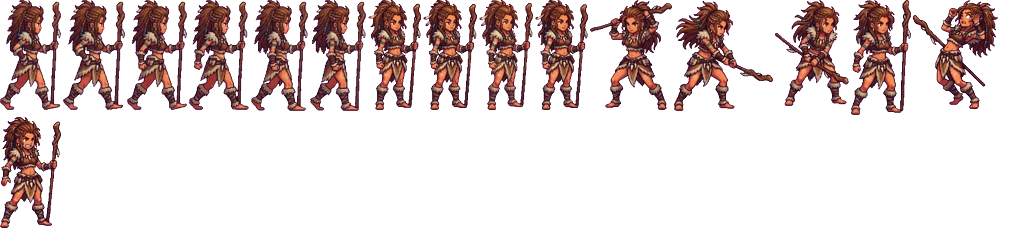
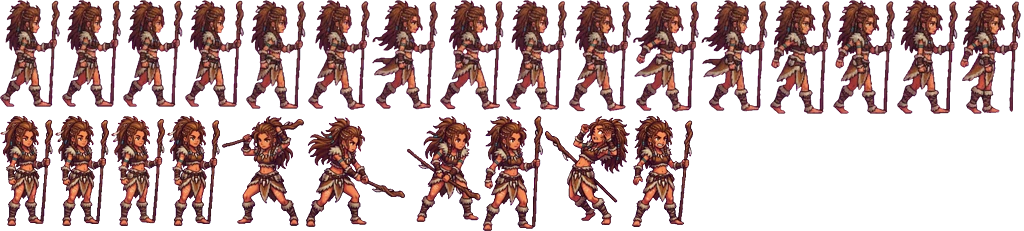
Héroes más fluidos: caminatas de 10-16 fotogramas (antes 4-6) y ataques de 6 para arquero y berserker; giro suave, respiración, viento en los árboles, hojas y luciérnagas; búfer HD-2D más nítido
Claude-Session: https://claude.ai/code/session_015RNUyaQ6fKR3Ufego5oPP2

diff --git a/www/js/anim_data.js b/www/js/anim_data.js
@@ -1,3 +1,3 @@
 /* Generado por tools/art/build_heroes.py — no editar a mano. */
 'use strict';
-const HERO_ANIM = {"iop":{"bh":110,"walk":[[0,0,72,110,32.5,110.0],[74,0,71,110,30.9,109.7],[147,0,72,111,33.3,110.9],[221,0,71,110,34.7,109.4],[294,0,69,111,29.7,110.6]],"idle":[[365,0,66,110,29.9,110.1],[433,0,69,111,32.4,110.8],[504,0,67,110,31.6,109.9],[573,0,67,110,32.3,109.4]],"attack":[[642,0,79,131,42.9,130.6],[723,0,90,108,34.9,108.2],[815,0,68,110,35.2,110.0]],"hurt":[[885,0,88,96,50.0,95.9],[0,133,70,124,28.5,124.1]]},"cra":{"bh":110,"walk":[[0,0,61,110,32.4,110.0],[63,0,61,111,28.1,111.1],[126,0,61,111,34.9,111.1],[189,0,61,110,30.3,110.0],[252,0,61,110,29.8,110.0]],"idle":[[315,0,74,111,36.8,110.7],[391,0,73,109,30.0,109.3]],"attack":[[466,0,66,111,22.7,110.4],[534,0,71,110,23.2,110.0],[607,0,74,110,22.7,110.0]],"hurt":[[683,0,91,108,43.9,107.9],[776,0,77,112,46.1,112.1]]},"feca":{"bh":110,"walk":[[0,0,58,110,25.6,109.7],[60,0,57,110,25.5,109.4],[119,0,57,110,25.6,110.0],[178,0,55,111,23.6,110.6],[235,0,54,111,23.7,110.9]],"idle":[[291,0,54,110,24.2,110.2],[347,0,56,110,23.6,110.0],[405,0,59,110,25.2,109.8]],"attack":[[466,0,61,131,26.1,130.5],[529,0,115,102,29.2,101.8],[646,0,63,110,37.9,110.0]],"hurt":[[711,0,107,102,61.6,101.8],[820,0,68,118,30.4,118.2]]},"sombra":{"bh":110,"walk":[[0,0,79,111,35.3,110.4],[81,0,77,110,32.0,110.0],[160,0,72,111,29.7,110.4],[234,0,76,110,27.0,110.0],[312,0,77,110,32.6,110.0],[391,0,77,110,28.0,110.0]],"idle":[[470,0,70,110,33.1,109.9],[542,0,71,111,33.9,110.6],[615,0,67,110,31.0,109.7],[684,0,69,110,33.0,110.1]],"attack":[[755,0,89,99,53.2,98.3],[846,0,99,109,41.2,108.3],[0,113,96,112,34.6,111.7],[98,113,84,115,48.7,114.5]],"hurt":[[184,113,72,108,35.1,108.0],[258,113,99,112,40.1,112.0]]},"domadora":{"bh":110,"walk":[[0,0,61,110,30.7,110.0],[63,0,62,110,30.5,110.0],[127,0,60,110,30.3,110.0],[189,0,60,110,29.7,110.0],[251,0,57,111,28.5,110.3],[310,0,56,111,26.4,110.3]],"idle":[[368,0,53,110,25.3,110.1],[423,0,54,110,25.9,109.9],[479,0,54,110,26.1,109.5],[535,0,53,110,25.0,110.3]],"attack":[[590,0,82,110,47.5,109.6],[674,0,99,111,28.0,110.4],[775,0,74,106,39.9,105.5],[851,0,60,115,27.0,114.5]],"hurt":[[913,0,85,109,50.0,109.0],[0,117,61,111,27.2,111.3]]},"artificiera":{"bh":110,"walk":[[0,0,67,110,27.0,109.7],[69,0,69,111,26.9,110.3],[140,0,67,110,28.2,110.0],[209,0,67,110,26.7,109.3],[278,0,53,110,22.3,110.0],[333,0,65,110,21.1,110.0]],"idle":[[400,0,60,110,23.1,109.7],[462,0,56,110,22.4,110.1],[520,0,56,111,22.3,110.3],[578,0,53,110,22.2,109.9]],"attack":[[633,0,60,107,31.3,106.6],[695,0,84,114,19.3,113.4]],"hurt":[[781,0,80,111,46.2,110.6],[863,0,45,109,24.3,108.4]]},"berserker":{"bh":110,"walk":[[0,0,139,108,35.0,107.9],[141,0,137,111,32.5,110.0],[280,0,137,111,32.8,110.0],[419,0,136,111,32.7,110.0]],"idle":[[557,0,137,110,33.8,109.7],[696,0,138,110,35.3,110.0],[836,0,96,113,42.8,112.6]],"attack":[[934,0,77,131,37.2,130.2],[0,133,110,110,37.4,110.0],[112,133,103,94,59.7,93.3]],"hurt":[[217,133,119,110,66.3,110.0]]}};
+const HERO_ANIM = {"iop":{"bh":110,"walk":[[0,0,69,110,31.8,109.3],[71,0,73,110,35.5,110.0],[146,0,72,111,34.0,110.4],[220,0,70,109,29.9,108.9],[292,0,70,110,30.5,109.3],[364,0,70,110,33.3,110.0],[436,0,76,111,40.8,110.4],[514,0,70,110,31.2,109.3],[586,0,70,111,32.3,110.7],[658,0,70,111,32.1,110.7],[730,0,75,111,42.1,111.1],[807,0,73,110,36.3,110.0]],"idle":[[882,0,66,110,29.9,110.1],[950,0,69,111,32.4,110.8],[0,113,67,110,31.6,109.9],[69,113,67,110,32.3,109.4]],"attack":[[138,113,79,131,42.9,130.6],[219,113,90,108,34.9,108.2],[311,113,68,110,35.2,110.0]],"hurt":[[381,113,88,96,50.0,95.9],[471,113,70,124,28.5,124.1]]},"cra":{"bh":110,"walk":[[0,0,76,110,37.3,109.7],[78,0,77,110,38.5,110.0],[157,0,77,110,38.4,110.0],[236,0,76,111,38.5,110.3],[314,0,76,109,36.7,109.0],[392,0,76,109,37.0,109.0],[470,0,76,109,35.7,109.0],[548,0,76,109,39.4,109.0],[626,0,76,111,37.1,110.7],[704,0,77,111,38.5,110.3],[783,0,76,111,35.2,110.7],[861,0,77,111,38.4,110.7]],"idle":[[940,0,74,111,36.8,110.7],[0,113,73,109,30.0,109.3]],"attack":[[75,113,43,109,21.3,108.4],[120,113,78,113,23.7,112.2],[200,113,77,112,23.7,111.9],[279,113,67,109,22.9,108.4],[348,113,81,112,22.6,111.6],[431,113,42,107,19.5,106.2]],"hurt":[[475,113,91,108,43.9,107.9],[568,113,77,112,46.1,112.1]]},"feca":{"bh":110,"walk":[[0,0,59,110,33.0,110.0],[61,0,59,110,33.0,110.0],[122,0,58,110,31.4,110.0],[182,0,59,110,33.1,110.0],[243,0,58,111,31.7,110.8],[303,0,58,112,32.1,111.7],[363,0,59,112,32.9,111.3],[424,0,59,110,32.8,110.0],[485,0,58,111,31.4,110.8],[545,0,58,110,31.6,109.6]],"idle":[[605,0,54,110,24.2,110.2],[661,0,56,110,23.6,110.0],[719,0,59,110,25.2,109.8]],"attack":[[780,0,61,131,26.1,130.5],[843,0,115,102,29.2,101.8],[0,133,63,110,37.9,110.0]],"hurt":[[65,133,107,102,61.6,101.8],[174,133,68,118,30.4,118.2]]},"sombra":{"bh":110,"walk":[[0,0,86,110,37.7,110.0],[88,0,85,110,37.8,110.0],[175,0,72,110,36.7,110.0],[249,0,86,110,36.9,110.0],[337,0,86,110,37.6,110.0],[425,0,73,111,38.0,110.4],[500,0,73,111,37.8,110.8],[575,0,73,110,38.0,110.0],[650,0,72,110,36.9,109.6],[724,0,72,110,37.9,110.0],[798,0,72,110,37.5,109.6],[872,0,72,110,36.5,110.0]],"idle":[[946,0,70,110,33.1,109.9],[0,113,71,111,33.9,110.6],[73,113,67,110,31.0,109.7],[142,113,69,110,33.0,110.1]],"attack":[[213,113,89,99,53.2,98.3],[304,113,99,109,41.2,108.3],[405,113,96,112,34.6,111.7],[503,113,84,115,48.7,114.5]],"hurt":[[589,113,72,108,35.1,108.0],[663,113,99,112,40.1,112.0]]},"domadora":{"bh":110,"walk":[[0,0,60,107,27.5,106.4],[62,0,59,107,27.1,106.9],[123,0,60,107,27.2,106.4],[185,0,59,107,27.2,106.4],[246,0,60,109,27.4,108.2],[308,0,62,110,29.7,109.6],[372,0,66,110,32.0,110.0],[440,0,64,110,31.3,109.1],[506,0,61,110,27.5,110.0],[569,0,62,112,28.6,111.3],[633,0,66,112,31.1,111.8],[701,0,67,112,34.1,111.3],[770,0,61,114,27.7,113.1],[833,0,62,114,28.1,113.1],[897,0,61,114,27.6,113.6],[960,0,61,114,25.8,114.0]],"idle":[[0,116,53,110,25.3,110.1],[55,116,54,110,25.9,109.9],[111,116,54,110,26.1,109.5],[167,116,53,110,25.0,110.3]],"attack":[[222,116,82,110,47.5,109.6],[306,116,99,111,28.0,110.4],[407,116,74,106,39.9,105.5],[483,116,60,115,27.0,114.5]],"hurt":[[545,116,85,109,50.0,109.0],[632,116,61,111,27.2,111.3]]},"artificiera":{"bh":110,"walk":[[0,0,57,109,28.3,108.2],[59,0,69,109,27.3,108.6],[130,0,69,109,27.1,108.6],[201,0,69,109,27.4,108.6],[272,0,69,110,27.5,109.4],[343,0,70,111,28.6,110.2],[415,0,70,111,31.2,110.2],[487,0,68,110,30.8,109.8],[557,0,70,112,27.7,111.4],[629,0,70,112,28.8,111.4],[701,0,70,111,27.4,111.0],[773,0,70,111,28.0,111.0]],"idle":[[845,0,60,110,23.1,109.7],[907,0,56,110,22.4,110.1],[965,0,56,111,22.3,110.3],[0,114,53,110,22.2,109.9]],"attack":[[55,114,60,107,31.3,106.6],[117,114,84,114,19.3,113.4]],"hurt":[[203,114,80,111,46.2,110.6],[285,114,45,109,24.3,108.4]]},"berserker":{"bh":110,"walk":[[0,0,142,111,36.3,110.0],[144,0,143,111,35.8,110.0],[289,0,139,111,33.5,110.0],[430,0,136,110,35.6,109.4],[568,0,149,111,42.4,110.0],[719,0,145,109,37.1,108.9],[866,0,146,109,43.8,108.9],[0,113,136,109,35.7,108.9],[138,113,149,111,41.4,110.6],[289,113,139,111,33.8,110.6],[430,113,146,110,43.8,109.4],[578,113,138,111,37.4,110.0],[718,113,149,111,42.0,110.6],[869,113,145,110,37.9,109.4],[0,226,144,111,36.1,110.0],[146,226,137,111,35.7,110.0]],"idle":[[285,226,137,110,33.8,109.7],[424,226,138,110,35.3,110.0],[564,226,96,113,42.8,112.6]],"attack":[[662,226,145,94,35.9,93.8],[809,226,139,118,39.6,118.1],[0,346,123,111,37.6,110.4],[125,346,142,110,32.9,110.0],[269,346,143,110,33.1,110.0],[414,346,142,110,32.9,110.0]],"hurt":[[558,346,119,110,66.3,110.0]]}};

diff --git a/www/js/motion.js b/www/js/motion.js
@@ -1,0 +1,108 @@
+/* Fendaria — capa de fluidez: lo que hace que todo se mueva «entre fotogramas».
+ *  · Héroes: giro suave (como una hoja que se da la vuelta) y respiración en reposo.
+ *  · Monstruos: giro suave al cambiar de dirección.
+ *  · Villa: árboles que se mecen con el viento, hojas de otoño que caen y luciérnagas de noche.
+ */
+'use strict';
+
+// ============================================================
+// Héroes
+// ============================================================
+const HERO_MS = {};
+const _drawHeroAnimM = drawHeroAnim;
+drawHeroAnim = function (g, o) {
+  if ((o.alpha ?? 1) < 0.5 || g !== ctx) return _drawHeroAnimM(g, o); // estelas y menús: tal cual
+  const key = o.cls + '|' + scene;
+  let st = HERO_MS[key];
+  const c = Math.cos(o.dir);
+  if (!st) st = HERO_MS[key] = { fs: c >= 0 ? 1 : -1, face: c >= 0 ? 1 : -1, t: now };
+  if (Math.abs(c) > 0.3) st.face = c > 0 ? 1 : -1; // mirando arriba/abajo: conserva el lado (sin parpadeos)
+  const target = st.face;
+  const dt = clamp(now - st.t, 0, 0.1); st.t = now;
+  st.fs = clamp(st.fs + clamp(target - st.fs, -dt * 13, dt * 13), -1, 1); // media vuelta en ~0,15 s
+  const side = st.fs >= 0 ? 1 : -1, mag = Math.max(0.14, Math.abs(st.fs));
+  const idle = !o.moving && !(o.swing > 0) && !(o.shot > 0) && !(o.hurt > 0);
+  const br = idle ? Math.sin(now * 2.6 + o.cls.length) : 0;
+  g.save();
+  g.translate(o.x, o.y);
+  g.scale(mag * (1 - br * 0.008), 1 + br * 0.014);
+  g.translate(-o.x, -o.y);
+  const r = _drawHeroAnimM(g, Object.assign({}, o, { dir: side > 0 ? 0 : Math.PI }));
+  g.restore();
+  return r;
+};
+
+// ============================================================
+// Monstruos
+// ============================================================
+const _drawMonsterAnimM = drawMonsterAnim;
+drawMonsterAnim = function (e, A0, k, ox, oy) {
+  const f = e.face || 1;
+  if (e._fs === undefined) e._fs = f;
+  if (Math.abs(f) < 1) return _drawMonsterAnimM(e, A0, k, ox, oy);
+  const dt = clamp(now - (e._ft || now), 0, 0.1); e._ft = now;
+  e._fs = clamp(e._fs + clamp(f - e._fs, -dt * 11, dt * 11), -1, 1);
+  e.face = (e._fs >= 0 ? 1 : -1) * Math.max(0.16, Math.abs(e._fs));
+  try { return _drawMonsterAnimM(e, A0, k, ox, oy); } finally { e.face = f; }
+};
+
+// ============================================================
+// Villa: viento en los árboles
+// ============================================================
+const _drawVillaSpriteM = drawVillaSprite;
+drawVillaSprite = function (o) {
+  if (o.kind !== 'tree') return _drawVillaSpriteM(o);
+  // ráfagas que recorren el pueblo de oeste a este; los arbolitos se mecen más
+  const gust = 0.6 + 0.4 * Math.sin(now * 0.35 - o.x * 0.002);
+  const sk = Math.sin(now * 1.7 + o.x * 0.013 + o.y * 0.007) * 0.022 * gust * (o.s < 0.7 ? 1.5 : 1);
+  ctx.save();
+  ctx.translate(o.x, o.y); ctx.transform(1, 0, sk, 1, 0, 0); ctx.translate(-o.x, -o.y);
+  try { return _drawVillaSpriteM(o); } finally { ctx.restore(); }
+};
+
+// ============================================================
+// Villa: hojas que caen y luciérnagas
+// ============================================================
+const LEAVES = [], FIREFLIES = [];
+const LEAF_COLS = ['#d9772f', '#c4472c', '#e8b545', '#b05a8a', '#8fae3c'];
+const _drawSkyLifeM = drawSkyLife;
+drawSkyLife = function () {
+  _drawSkyLifeM();
+  const dt = clamp(now - (LEAVES.t || now), 0, 0.1); LEAVES.t = now;
+  const vw = W / zoom / 2 + 60, vh = H / zoom / 2 + 60;
+  // hojas: caen girando, empujadas por el viento
+  while (LEAVES.length < 26) LEAVES.push({ x: vCam.x + rand(-vw, vw), y: vCam.y + rand(-vh, vh) - 200, z: rand(40, 160), vz: rand(14, 26), ph: rand(0, TAU), c: pick(LEAF_COLS), s: rand(2.5, 4) });
+  for (let i = LEAVES.length - 1; i >= 0; i--) {
+    const l = LEAVES[i];
+    l.z -= l.vz * dt; l.x += (14 + Math.sin(now * 0.35 - l.x * 0.002) * 10 + Math.sin(now * 2 + l.ph) * 18) * dt;
+    if (l.z <= 0 || Math.abs(l.x - vCam.x) > vw + 80 || Math.abs(l.y - vCam.y) > vh + 260) { LEAVES.splice(i, 1); continue; }
+    const fl = Math.sin(now * 5 + l.ph);
+    ctx.save(); ctx.translate(l.x, l.y - l.z); ctx.rotate(fl * 0.9);
+    ctx.fillStyle = l.c; ctx.fillRect(-l.s, -l.s * 0.45 * Math.abs(fl) - 0.6, l.s * 2, Math.max(1.2, l.s * 0.9 * Math.abs(fl)));
+    ctx.restore();
+  }
+  // luciérnagas (las que brillan se dibujan después de la luz, en lightsFireflies)
+  const k = typeof nightK === 'function' ? nightK() : 0;
+  const want = Math.round(34 * k);
+  while (FIREFLIES.length < want) FIREFLIES.push({ x: vCam.x + rand(-vw, vw), y: vCam.y + rand(-vh, vh), ph: rand(0, TAU), sp: rand(0.6, 1.4) });
+  if (FIREFLIES.length > want) FIREFLIES.length = want;
+  for (const f of FIREFLIES) {
+    f.x += Math.sin(now * 0.7 * f.sp + f.ph) * 12 * dt; f.y += Math.cos(now * 0.9 * f.sp + f.ph * 2) * 9 * dt;
+    if (Math.abs(f.x - vCam.x) > vw) f.x = vCam.x + rand(-vw, vw);
+    if (Math.abs(f.y - vCam.y) > vh) f.y = vCam.y + rand(-vh, vh);
+  }
+};
+// las luciérnagas brillan por encima de la oscuridad
+const _renderLightingM = renderLighting;
+renderLighting = function (lights, ambient, shade) {
+  _renderLightingM(lights, ambient, shade);
+  if (scene !== 'hub' || !FIREFLIES.length) return;
+  const cx = vCam.x, cy = vCam.y, hz = zoom;
+  for (const f of FIREFLIES) {
+    const a = 0.5 + 0.5 * Math.sin(now * 3 * f.sp + f.ph);
+    if (a < 0.15) continue;
+    const x = (f.x - cx) * hz + W / 2, y = (f.y - cy - 26) * hz + H / 2;
+    glow(x, y, 16 * hz, '200,255,140', 0.6 * a);
+    circle(x, y, 1.6 * hz, `rgba(240,255,200,${a})`);
+  }
+};

diff --git a/www/js/hd2d.js b/www/js/hd2d.js
@@ -10,7 +10,7 @@ const HD2D = { on: true, dof: false, pixMul: 1, pix: 2, c: null, g: null, main: 
 
 // Tamaño del píxel en CSS px: ~250 píxeles de alto de pantalla, como una consola clásica
 // con la cámara más alejada el búfer gana resolución: los sprites conservan su detalle
-const hd2dPixSize = () => Math.max(1, Math.max(1.25, H / 250) * HD2D.pixMul * 420 / VIEW.units);
+const hd2dPixSize = () => Math.max(1, Math.max(1.2, H / 300) * HD2D.pixMul * 420 / VIEW.units);
 
 function hd2dCanvas(w, h, alpha = true) {
   const c = document.createElement('canvas');

diff --git a/www/index.html b/www/index.html
@@ -224,5 +224,6 @@
   <script src="js/camp.js"></script>
   <script src="js/look.js"></script>
   <script src="js/hudbar.js"></script>
+  <script src="js/motion.js"></script>
 </body>
 </html>

diff --git a/tools/art/build_heroes.py b/tools/art/build_heroes.py
@@ -1,6 +1,6 @@
 """Fendaria — héroes rediseñados (2.ª generación): atlas de animación y arte de cuerpo entero.
 
-Uso: python3 build_heroes.py <carpeta_hojas> <salida_www>
+Uso: python3 build_heroes.py <carpeta_hojas>[:<otra>...] <salida_www>   (la primera carpeta con la hoja gana)
   <carpeta_hojas> contiene, por clase, <clase>_base-0.jpg (diseño) y <clase>_<pose>-0.jpg (walk, idle, attack, hurt),
   todas con fondo magenta liso (generadas con Leonardo, ver README).
 Escribe <www>/img/heroes/anim/<clase>.webp, <www>/img/heroes/px/<clase>.png y <www>/js/anim_data.js
@@ -22,27 +22,45 @@ KEEP = {
     'berserker': {'attack': [0, 1, 2], 'hurt': [0]},
 }
 FLIP = {'artificiera': {'walk': [5]}}
+# ajustes de las hojas nuevas (rejillas de 12-16 fotogramas)
+FRESH_KEEP = {'feca': {'walk': [0, 1, 2, 3, 4, 6, 7, 8, 10, 11]}}
 CLIP_FWD = {'cra': 0.8, 'feca': 1.7, 'berserker': 1.0, 'iop': 0.85, 'domadora': 1.0}
 # hojas cuyos fotogramas se tocan: N columnas iguales, o lista de cortes (fracción del ancho)
 GRID = {'cra': {'walk': 6}, 'feca': {'attack': [0.26, 0.72]}}
 PX_H = 300  # altura del arte de cuerpo entero (menú, diálogos)
 
 
+def by_rows(fr):
+    """Hojas en rejilla: ordena los fotogramas por filas y, dentro de cada fila, de izquierda a derecha."""
+    if len(fr) < 2: return fr
+    hs = sorted(f['img'].height for f in fr); gap = hs[len(hs) // 2] * 0.5
+    fr = sorted(fr, key=lambda f: f['y'])
+    rows, cur = [], [fr[0]]
+    for f in fr[1:]:
+        if f['y'] - cur[-1]['y'] > gap: rows.append(cur); cur = [f]
+        else: cur.append(f)
+    rows.append(cur)
+    return [f for r in rows for f in sorted(r, key=lambda f: f['x'])]
+
+
 def build(src, www):
+    srcs = src.split(':')  # varias carpetas: la primera que tenga la hoja gana
     out_dir = os.path.join(www, 'img/heroes/anim'); os.makedirs(out_dir, exist_ok=True)
     px_dir = os.path.join(www, 'img/heroes/px'); os.makedirs(px_dir, exist_ok=True)
     data = {}
     for cls in CLASSES:
         # arte de cuerpo entero a partir del diseño base
-        base = frames(os.path.join(src, f'{cls}_base-0.jpg'))
+        base = frames(next(os.path.join(d, f'{cls}_base-0.jpg') for d in srcs if os.path.exists(os.path.join(d, f'{cls}_base-0.jpg'))))
         b = max(base, key=lambda f: f['img'].width * f['img'].height)
         s = PX_H / b['img'].height
         shrink(b['img'], s).save(os.path.join(px_dir, cls + '.png'), optimize=True)
         placed = []
         for pose in ['walk', 'idle', 'attack', 'hurt']:
-            path = os.path.join(src, f'{cls}_{pose}-0.jpg')
-            if not os.path.exists(path): continue
-            n = GRID.get(cls, {}).get(pose)
+            path = next((os.path.join(d, f'{cls}_{pose}-0.jpg') for d in srcs if os.path.exists(os.path.join(d, f'{cls}_{pose}-0.jpg'))), None)
+            if not path: continue
+            fresh = len(srcs) > 1 and path.startswith(srcs[0])  # hoja nueva: sin los ajustes de las antiguas
+            cfg = lambda T: (FRESH_KEEP.get(cls, {}) if T is KEEP else {}) if fresh else T.get(cls, {})
+            n = cfg(GRID).get(pose)
             if n:
                 import tempfile
                 im = Image.open(path).convert('RGB'); fr = []
@@ -52,10 +70,10 @@ def build(src, www):
                     im.crop((xs[k], 0, xs[k + 1], im.height)).save(tmp)
                     fr.append(max(frames(tmp), key=lambda f: f['img'].width * f['img'].height))
             else:
-                fr = frames(path)
-            for i in FLIP.get(cls, {}).get(pose, []):
+                fr = by_rows(frames(path)) if fresh else frames(path)
+            for i in cfg(FLIP).get(pose, []):
                 f = fr[i]; f['img'] = f['img'].transpose(Image.FLIP_LEFT_RIGHT); f['ax'] = f['img'].width - 1 - f['ax']
-            keep = KEEP.get(cls, {}).get(pose)
+            keep = cfg(KEEP).get(pose)
             if keep is not None: fr = [fr[i] for i in keep if i < len(fr)]
             # escala común de la pose a partir de la altura del cuerpo (mediana)
             sc = BODY_PX / float(np.median([f['bh'] for f in fr]))
